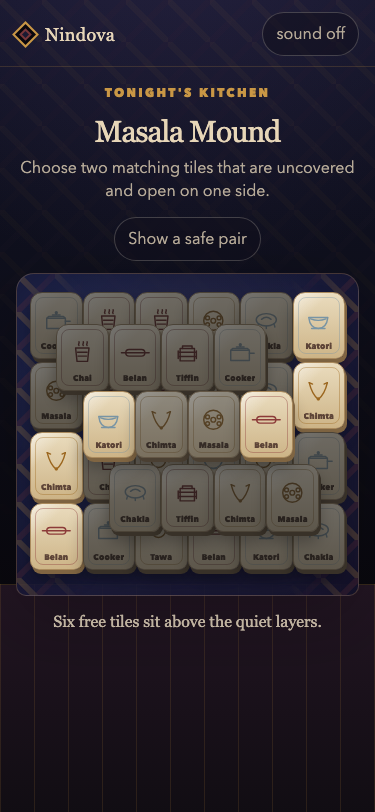
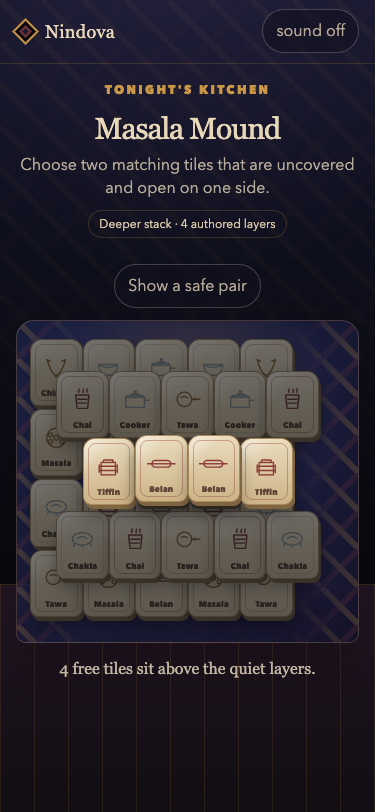
docs: synchronize quiet depth release surfaces

diff --git a/apps/site/src/styles/global.css b/apps/site/src/styles/global.css
@@ -35,7 +35,7 @@ h3 { margin-block-end: var(--space-xs); font-size: var(--text-lg); line-height: 
 .site-nav nav a, .site-footer nav a { display: inline-flex; min-height: 44px; align-items: center; font-size: var(--text-sm); font-weight: 650; white-space: nowrap; }
 .nav-play { padding-inline: var(--space-md); border: 1px solid var(--color-accent); color: var(--color-accent); text-decoration: none; }
 
-.rasoi-hero, .rule-section, .material-section, .boundary-section, .dawn-section, .trust-section, .qr-section, .closing-section, .site-footer { padding-inline: var(--page-gutter); }
+.rasoi-hero, .rule-section, .material-section, .boundary-section, .dawn-section, .sleep-section, .trust-section, .qr-section, .closing-section, .site-footer { padding-inline: var(--page-gutter); }
 .rasoi-hero {
   display: grid;
   align-items: center;
@@ -107,6 +107,12 @@ h3 { margin-block-end: var(--space-xs); font-size: var(--text-lg); line-height: 
 .dawn-art { margin: 0; }
 .dawn-art img { border: .6rem solid var(--color-paper-2); outline: 1px solid var(--color-accent-soft); box-shadow: 1.2rem 1.2rem 0 color-mix(in oklch, var(--color-accent-soft) 22%, transparent); }
 
+.sleep-section { display: grid; gap: var(--space-2xl); padding-block: var(--space-4xl); border-block: 1px solid var(--color-rule); background: var(--color-paper); }
+.sleep-fact { align-self: end; padding: var(--space-xl); border: 1px solid var(--color-accent-soft); background: var(--color-paper-2); box-shadow: .75rem .75rem 0 color-mix(in oklch, var(--color-accent-soft) 16%, transparent); }
+.sleep-fact > p:first-child { margin-bottom: var(--space-md); color: var(--color-ink-soft); font-family: var(--font-display); font-size: clamp(1.25rem, 2.2vw, 1.75rem); line-height: 1.45; }
+.source-line { margin: 0; color: var(--color-neutral); font-size: var(--text-sm); }
+.source-line a { font-weight: 700; }
+
 .trust-section { display: grid; gap: var(--space-2xl); padding-block: var(--space-4xl); background: var(--color-paper-2); }
 .trust-section ul { margin: 0; padding: 0; border-block-start: 1px solid var(--color-rule); list-style: none; }
 .trust-section li { display: grid; gap: var(--space-xs); padding-block: var(--space-md); border-block-end: 1px solid var(--color-rule); }
@@ -131,7 +137,7 @@ h3 { margin-block-end: var(--space-xs); font-size: var(--text-lg); line-height: 
 
 @media (min-width: 48rem) {
   .rasoi-hero { grid-template-columns: minmax(0, .86fr) minmax(26rem, 1.14fr); }
-  .rule-section, .material-section, .dawn-section, .trust-section, .qr-section { grid-template-columns: minmax(0, 1fr) minmax(0, 1fr); }
+  .rule-section, .material-section, .dawn-section, .sleep-section, .trust-section, .qr-section { grid-template-columns: minmax(0, 1fr) minmax(0, 1fr); }
   .boundary-grid { grid-template-columns: repeat(3, minmax(0, 1fr)); }
   .site-footer { grid-template-columns: auto 1fr auto; }
   .site-footer nav { justify-self: center; }

diff --git a/README.md b/README.md
@@ -1,31 +1,32 @@
 # Nindova
 
-Nindova is a calm, bounded pair-removal game for the end of the day. **Masala Mound** uses the uncovered-and-open-side rule of Mahjong solitaire and fills three overlapping layers with everyday Indian kitchen forms: belan, chakla, tawa, chimta, steel katori, tiffin, masala dabba, chai glass, and pressure cooker.
+Nindova is a calm, bounded pair-removal game for the end of the day. **Masala Mound** uses the uncovered-and-open-side rule of Mahjong solitaire and fills authored overlapping layers with everyday Indian kitchen forms: belan, chakla, tawa, chimta, steel katori, tiffin, masala dabba, chai glass, and pressure cooker.
 
 > Nothing to win. Nothing tracked. Nothing you can do wrong.
 
-![The real Masala Mound board, showing three overlapping layers of Indian kitchen tiles](./apps/site/public/media/rasoi-board.png)
+![The real Deeper Masala Mound board, showing four overlapping layers of Indian kitchen tiles](./apps/site/public/media/rasoi-board.png)
 
 ## Get Nindova
 
-- Build the v0.2.0 source candidate locally for the layered Session, installable offline PWA, documentation, and self-contained `nindova.html`.
-- The proposed direct, non-tracking QR targets `https://udhawan97.github.io/Nindova/play/`. Public hosting is not configured by this candidate, so that route and a real scan remain unavailable until publication is separately authorized and observed.
-- [Open the v0.1.0 release](https://github.com/udhawan97/Nindova/releases/tag/v0.1.0) for the previous flat-rack build and its checksums.
+- [Download v0.2.0](https://github.com/udhawan97/Nindova/releases/tag/v0.2.0) for the checksummed self-contained HTML file and complete web/PWA archive, or build the same source locally.
+- The direct, non-tracking QR targets `https://udhawan97.github.io/Nindova/play/`. This source release does not configure or claim public hosting; the route and a physical-device scan remain a separate verification lane.
+- [Open the release history](https://github.com/udhawan97/Nindova/releases) for the previous flat-rack build and its checksums.
 
-Until a public build is separately authorized and published, `/play/` works after serving a local build and `dist/nindova.html` works as a self-contained file.
+Until public hosting is separately configured and observed, `/play/` works after serving a local build and `dist/nindova.html` works as a self-contained file.
 
-<img src="./apps/site/public/play-qr.svg" width="180" alt="Proposed direct QR for the future canonical Nindova play URL">
+<img src="./apps/site/public/play-qr.svg" width="180" alt="Direct QR for the canonical Nindova play URL">
 
-The QR artifact encodes the full proposed URL with no shortener or tracking parameter. Keep the printed URL with the code so people can verify its destination after publication.
+The QR artifact encodes the full canonical URL with no shortener or tracking parameter. Keep the printed URL with the code so people can verify its destination when hosting is available.
 
 ## The experience
 
 - **A spatial rule.** Choose two matching tiles only when nothing overlaps them from above and at least one horizontal side is open.
-- **Guaranteed closure.** The 36-tile, 24/8/4-layer board is exhaustively verified across 382 reachable states: every reachable nonterminal state has a legal pair, and every legal choice remains solvable.
+- **A tonight-only choice.** Gentle stack has three more-open layers. Deeper stack uses four layers and more look-ahead. They are equal preferences, not levels or ability labels.
+- **Guaranteed closure.** Gentle is exhaustively verified across 382 reachable states; Deeper across 517. Each has one terminal state, zero dead states, and no losing legal choice.
 - **Clear match feedback.** Each legal pair folds inward through one brief, deterministic brass bloom; reduced motion uses opacity only and sound stays off by default.
 - **Quiet help.** “Show a safe pair” identifies a pair but never removes it.
-- **No performance layer.** No score, count, timer, streak, achievement, grade, collection, missed-night state, or randomized reward.
-- **A real ending.** Clearing the board closes the Session. If left unfinished, it settles itself before the hidden fifteen-minute ceiling. The primary handoff asks the person to put the screen down.
+- **No performance layer.** No score, weekly rank, history, count, timer, streak, achievement, grade, collection, missed-night state, or randomized reward.
+- **A real ending.** Clearing the board closes the Session. If left unfinished, it settles itself before the hidden fifteen-minute ceiling. Rest is primary; optional Rasoi Image Drift carries three familiar forms away from the screen and never routes back into play.
 - **Dawn, by choice.** From 06:00 through 11:59 in the captured Night ID zone, the previous night’s kitchen forms return as a first-light still and optional silent loop.
 - **Voluntary return.** “Not now” leaves Nindova available later that same night. After completion, closing and deliberately reopening Nindova starts another separately bounded Session on the identical board without multiplying Dawn.
 
@@ -74,7 +75,7 @@ npm test
 npm run test:wall-clock
 ```
 
-The main gates prove the 382-state board invariant, deterministic Night ID, recipe-two Dawn preservation, v1/v2-to-v3 local migration, idempotent same-night return, layered rendering, brass-bloom/reduced-motion behavior, Dawn eligibility/export fallback, 320–1440px rendered layouts, keyboard operation, 200% zoom, 44px targets, offline PWA closure, standalone independence, same-origin runtime requests, and the real production ceiling.
+The main gates prove the 382-state Gentle and 517-state Deeper invariants, deterministic Night ID, recipe-two Dawn preservation, v1/v2-to-v3 local migration, profile-bound same-tab recovery, idempotent same-night return, layered rendering, brass-bloom/Image-Drift/reduced-motion behavior, Dawn eligibility/export fallback, 320–1440px rendered layouts, keyboard operation, 200% zoom, 44px targets, offline PWA closure, standalone independence, same-origin runtime requests, and the real production ceiling.
 
 See [Testing](./apps/site/src/content/docs/docs/testing.md) and the [public-surface evidence ledger](./docs/PUBLIC-SURFACE-EVIDENCE.md) for evidence levels and remaining risk.
 
@@ -82,7 +83,7 @@ See [Testing](./apps/site/src/content/docs/docs/testing.md) and the [public-surf
 
 Nindova has no account, analytics, app telemetry, ads, app-controlled remote logging, or third-party runtime request. The production Session is static and same-origin. A static host may keep its own operational access logs outside the app's control.
 
-Long-lived local storage contains one version-3 record with only the latest completion facts needed by Dawn, a safely migrated legacy Dawn variant when present, and the optional local “Same time tomorrow?” intention. Interaction timing exists only in same-tab session storage to enforce resume and closure; it is not written to the long-lived record. Generated images and loops remain local blobs unless the person explicitly saves or shares them.
+Long-lived local storage contains one version-3 record with only the latest completion facts needed by Dawn, a safely migrated legacy Dawn variant when present, and the optional local “Same time tomorrow?” intention. The selected board profile and interaction timing exist only in version-4 same-tab session storage to enforce deterministic resume and closure; neither becomes history. Generated images and loops remain local blobs unless the person explicitly saves or shares them.
 
 ## Product and evidence boundary
 
@@ -92,7 +93,7 @@ The browser and standalone surfaces are implemented. The iOS Wall is deferred an
 
 ## Contributing
 
-Read [CONTEXT.md](./CONTEXT.md), the [layered Rasoi plan](./docs/LAYERED-RASOI-PLAN.md), and [ADR 0011](./docs/adr/0011-layer-rasoi-and-keep-replay-deliberate.md) before changing a product boundary. Preserve the Two-Loop Law, the immutable language, zero telemetry, deterministic solvability, and rendered phone/desktop evidence.
+Read [CONTEXT.md](./CONTEXT.md), the [Quiet Depth plan](./docs/QUIET-DEPTH-PLAN.md), and [ADR 0012](./docs/adr/0012-add-tonight-only-depth-and-image-drift.md) before changing a product boundary. Preserve the Two-Loop Law, the immutable language, zero telemetry, deterministic solvability, and rendered phone/desktop evidence.
 
 ## License
 

diff --git a/docs/PUBLIC-SURFACE-EVIDENCE.md b/docs/PUBLIC-SURFACE-EVIDENCE.md
@@ -4,24 +4,25 @@
 
 - The standalone `nindova.html` opens with no manifest or controlling service worker and exposes the same 36-tile runtime as `/play/`.
 - The rendered Session has no horizontal overflow or hidden required action at 320×568, 375×667, 375×812, 414×896, 768×1024, or 1440×900.
-- Six free Tiles expose native labels and targets of at least 44×44 CSS pixels; all 18 pairs can be removed with Tab and Enter at 200% zoom while focus moves to the next legal Tile.
-- The rendered board has real 24/8/4-layer overlap and z-order. Covered and side-blocked Tiles announce distinct reasons and are not operable.
-- The board verifier explores 382 reachable states with one terminal state and zero dead states for representative Chicago, Kolkata, and daylight-saving Night IDs.
+- Gentle begins with six free Tiles and Deeper with four. Native labels expose profile, numbered layer, and availability; targets remain at least 44×44 CSS pixels, and all 18 pairs can be removed with Tab and Enter at 200% zoom while focus moves to the next legal Tile.
+- Gentle has real 24/8/4 overlap across three layers. Deeper has a distinct 20/10/4/2 geometry across four layers. Covered and side-blocked Tiles announce distinct reasons and are not operable.
+- The board verifier explores 382 Gentle and 517 Deeper reachable states, one terminal state per profile, and zero dead states for representative Chicago, Kolkata, and daylight-saving Night IDs.
 - A legal pair updates engine state synchronously, shows a bounded and computed-visible deterministic brass bloom, and uses an opacity-only response under reduced motion. The board warmth token and settled-pixel mean do not increase after removal.
-- The asserted browser arc removes all 18 pairs and reaches the immutable end card with no console or page errors.
+- The asserted browser arc removes all 18 pairs and reaches the immutable end card with no console or page errors. Deeper is independently rendered and solved through the same legality kernel.
 - Dawn renders the stored kitchen motif order, downloads a local PNG, survives unsupported loop encoding, and creates a real browser loop when supported.
 - The PWA manifest and service worker are scoped to `/play/`; the v4 cache replaces a seeded v3 cache, retains local storage, and contains static same-origin shell URLs only. The Session resumes and closes offline with audio denied.
-- The end and rest surfaces do not route back into play. A page close/reopen returns to intake and can begin another separately bounded Session with the same board and cleared ephemeral state.
-- The landing page and docs build under `/` and `/Nindova/`; automation traverses the local `/play/`, `/docs/`, standalone artifact, and font-license paths. It also decodes the rendered QR to the single shared proposed canonical URL.
-- The council-fixed production application reached `end` at 722.447 seconds, remained closed through 900.001 observed seconds, and reported no browser errors in the unaccelerated wall-clock gate.
+- Rest is the primary completion action. Optional Rasoi Image Drift presents three deterministic kitchen forms, accepts no response, supports names and tactile wording as alternatives to visual imagery, and proceeds only to Rest. End, Drift, and Rest do not route back into play. A page close/reopen returns to intake and can begin another separately bounded Session with the same profile and board and cleared ephemeral state.
+- The landing page and docs build under `/` and `/Nindova/`; automation traverses the local `/play/`, `/docs/`, standalone artifact, and font-license paths. It also decodes the rendered QR to the single shared proposed canonical URL. Fresh committed 840×476 and 375×812 captures show the real Deeper source surface.
+- The production application reached `end` at 722.388 seconds through the `production-cap` path, reached near-black `rest` by 900.001 observed seconds, and reported no browser errors in the unaccelerated wall-clock gate.
 
 ## Source-proven
 
 - Long-lived state sanitization excludes interaction timestamps and safely copies v1/v2 Dawn state into a v3 union without deleting the source key.
 - Same-night completion is idempotent; deliberate return through intake selects the same board ID and motif order.
-- Same-tab active state accepts only a complete Night capture, exact capture-bound boundary times, a reachable legal removal history, and a possible phase/reason combination. Future/corrupt records fail open, rollback cannot defeat the monotonic boundary, and reload during settlement resumes closure instead of restoring a dead board.
+- Same-tab active state accepts only a known profile, complete Night capture, exact capture-bound boundary times, reachable legal removal history, and possible phase/reason combination. Future/corrupt records fail open, rollback cannot defeat the monotonic boundary, and reload during settlement resumes closure instead of restoring a dead board. The profile is ephemeral and never becomes long-lived history.
 - The runtime contains no analytics, account, advertising, remote-logging, or third-party request code. Browser request capture remains same-origin.
-- The landing page's external release-history mapping targets the existing v0.1.0 GitHub release; the offline gate does not depend on traversing that external service.
+- Sleep education stays outside the nightly Session, paraphrases CDC and NIH/NHLBI guidance, and links directly to those public sources. It does not infer a personal need, score sleep, or claim Nindova changes sleep or memory.
+- Runtime sound, animation, imagery, icons, and board geometry are locally authored with browser primitives. No paid API, free-tier service, new package, third-party runtime asset, or remote resource was introduced; existing Apache-2.0 and OFL notices remain public.
 
 ## Untested risk
 
@@ -29,4 +30,4 @@
 - Installed Safari and broader Android PWA behavior.
 - Human Punjabi cultural-authenticity review.
 - Human evidence that Masala Mound feels calm, legible, sleep-compatible, or improves general memory. No sleep, memory, or dopamine outcome is claimed.
-- Public deployment and real-device QR scanning. Hosting is not configured, and the proposed canonical URL is not yet published or observed.
+- Public deployment and real-device QR scanning. The canonical `/play/` URL returned HTTP 404 when checked on 2026-08-03; hosting is not configured by this source release.

diff --git a/apps/site/src/content/docs/docs/nightly-arc.md b/apps/site/src/content/docs/docs/nightly-arc.md
@@ -8,19 +8,20 @@ Rasoi Pairs is inspired by the readable free-tile rule of Mahjong solitaire. It 
 ## The path
 
 1. **Enter or decline** — “Not now” opens a quiet dismissal surface. Nindova stays voluntarily available later that night.
-2. **Read the mound** — six Tiles are initially free. A Tile needs no overlap from above and at least one open horizontal side.
-3. **Choose a pair** — select two free tiles showing the same kitchen form. A mismatch simply lifts the newer tile; there is no penalty.
-4. **Settle** — a match folds inward through one dim, predictable brass bloom and an optional restrained sound. Newly uncovered or open-side Tiles become free.
-5. **Ask for help if wanted** — a safe pair breathes briefly. Help never removes tiles.
-6. **Close** — the cleared board settles under its brass lid. If the hidden production boundary arrives first, the remaining kitchen settles under the same lid and reaches the same end card.
+2. **Choose tonight's profile** — Gentle has broader openings across three layers. Deeper adds a fourth layer and more look-ahead. Neither is a level, rank, or ability label.
+3. **Read the mound** — Gentle begins with six free Tiles; Deeper begins with four. A Tile needs no overlap from above and at least one open horizontal side.
+4. **Choose a pair** — select two free tiles showing the same kitchen form. A mismatch simply lifts the newer tile; there is no penalty.
+5. **Settle** — a match folds inward through one dim, predictable brass bloom and an optional restrained sound. Newly uncovered or open-side Tiles become free.
+6. **Ask for help if wanted** — a safe pair breathes briefly. Help never removes tiles.
+7. **Close** — the cleared board settles under its brass lid. If the hidden production boundary arrives first, the remaining kitchen settles under the same lid and reaches the same end card.
 
-The end card begins: “The session is over. That's the point.” Its primary action opens an optional screen-away handoff. Neither surface routes back into play. Closing and deliberately reopening Nindova returns to intake, where another separately bounded same-night Session is possible.
+The end card begins: “The session is over. That's the point.” **Dim and rest** is primary. A secondary **Carry three objects** action opens optional Rasoi Image Drift: three deterministic board forms appear with visible and semantic names before the same Rest handoff. It collects no answer and is not a sleep technique. Neither surface routes back into play. Closing and deliberately reopening Nindova returns to intake, where another separately bounded same-night Session is possible.
 
 ## Board guarantee
 
-The board has 36 Tiles: 24 on the base, 8 in the middle, and 4 on top, with four copies of each of nine motifs. The same overlap/open-side legality kernel drives rendering, input, help, active-session validation, and exhaustive verification.
+Each profile has 36 Tiles and four copies of each of nine motifs. Gentle uses 24 base, 8 middle, and 4 top Tiles. Deeper uses 20 base, 10 middle, 4 upper, and 2 crown Tiles. The same overlap/open-side legality kernel drives rendering, input, help, active-session validation, and exhaustive verification.
 
-The verifier explores all 382 reachable removal states for every tested board recipe. Every nonterminal state has at least one legal pair; every legal choice reaches the single terminal state. Nightly variation only permutes motif placement and cloth tone.
+The verifier explores 382 Gentle and 517 Deeper reachable removal states for every tested board recipe. Each profile has one terminal state and zero dead states; every legal choice remains safe. Nightly variation only permutes motif placement and cloth tone.
 
 ## Rest boundary
 
@@ -28,4 +29,4 @@ The verifier explores all 382 reachable removal states for every tested board re
 
 ## Timing
 
-The production clock begins an unfinished board's automatic settle at twelve minutes and has a hidden fifteen-minute ceiling. The remaining kitchen closes under the same lid. The reviewer switch `?review=1` compresses those boundaries without changing order or outcome.
+The production clock begins an unfinished board's automatic settle at twelve minutes and has a hidden fifteen-minute ceiling. Board, settlement, end card, optional Image Drift, and Rest share that one deadline. The reviewer switch `?review=1` compresses timing without changing order or outcome.

diff --git a/docs/testing/rasoi-redesign.md b/docs/testing/rasoi-redesign.md
@@ -3,25 +3,25 @@
 ## Pure model
 
 - 36 tiles: four copies of nine kitchen motifs.
-- Three overlapping layers: 24 base Tiles, 8 middle Tiles, and 4 top Tiles. A Tile is free only when uncovered and open on at least one horizontal side.
+- Gentle uses 24/8/4 Tiles across three layers; Deeper uses 20/10/4/2 across four. A Tile is free only when uncovered and open on at least one horizontal side.
 - One legality kernel drives free state, input, help, removal, completion, and exhaustive verification.
-- Representative Chicago, Kolkata, and daylight-saving Night IDs each produce 382 reachable states, one terminal state, and zero dead states.
+- Representative Chicago, Kolkata, and daylight-saving Night IDs each produce 382 Gentle and 517 Deeper reachable states, one terminal state per profile, and zero dead states.
 
 ## Rendered Session
 
-- Asserted arc: `intake → play → settling → end` after 18 legal pair removals.
+- Asserted arc: `intake → play → settling → end`, with optional `end → drift → rest`, after 18 legal pair removals.
 - Responsive inspection and automation: 320×568, 375×667, 375×812, and 1440×900, with retained 414×896 and 768×1024 coverage.
-- Native tile buttons expose form, free/covered, selected, and settled state; six starting tiles are at least 44×44 CSS pixels.
+- Native tile buttons expose form, numbered layer, free/covered, selected, and settled state; all starting free tiles are at least 44×44 CSS pixels.
 - Keyboard-only pair removal, two full touch journeys through every newly exposed layer, 200% zoom, reduced motion, computed visible focus, action reachability, and horizontal-overflow checks pass.
 - Help identifies two tiles and leaves the board unchanged.
 - A legal pair leaves through a bounded, computed-visible deterministic brass bloom; reduced motion uses opacity only. Settled board screenshots and the decreasing warmth token verify that the mean board luminance does not increase after a pair leaves.
-- No-input, partial, and selected-tile paths converge through the same production-cap ending.
+- No-input, partial, and selected-tile paths converge through the same production-cap Rest boundary.
 
 ## Night, privacy, and return
 
-- Same-tab reload restores the exact board and removed-tile set from ephemeral session storage. Active clocks are bound to the captured Night instant; future-corrupt and rollback cases fail safe or still close at the boundary.
+- Same-tab reload restores the exact profile, board, and removed-tile set from ephemeral version-4 session storage. Active clocks are bound to the captured Night instant; old, unknown-profile, future-corrupt, and rollback cases fail safe or still close at the boundary.
 - Same-night voluntary replay selects the same Night ID, board ID, and motif order.
-- The completed Session offers a screen-away handoff with no route back into play; browser evidence closes the page, opens a new page in the same profile, and completes the second touch Session without multiplying Dawn.
+- The completed Session makes Rest primary and offers one optional, response-free Image Drift with no route back into play; browser evidence closes the page, opens a new page in the same profile, and completes the second touch Session without multiplying Dawn.
 - Version-3 completion is idempotent and contains no interaction timestamps.
 - Version-1 legacy Dawn data copies into an explicit legacy completion variant without pretending it was Rasoi play. A literal v0.1.0 recipe-two completion passes storage restoration, Dawn eligibility, and Dawn rendering under recipe three.
 - Browser “Not now” leaves a same-page voluntary return path. No persistence, guilt language, or native-interception claim is added.
@@ -40,4 +40,4 @@ Human Punjabi cultural review, real-device VoiceOver/TalkBack, installed Safari/
 
 ## Production wall-clock receipt
 
-On 2026-08-03, `npm run test:wall-clock` exercised the council-fixed production application without reviewer acceleration. The Session reached `end` at 722.447 seconds through the `production-cap` path, remained closed through 900.001 observed seconds, and reported no console or page errors.
+On 2026-08-03, `npm run test:wall-clock` exercised the production application without reviewer acceleration. The Session reached `end` at 722.388 seconds through the `production-cap` path, reached `rest` by 900.001 observed seconds, and reported no console or page errors.

diff --git a/apps/site/src/content/docs/docs/research-receipts.md b/apps/site/src/content/docs/docs/research-receipts.md
@@ -5,6 +5,12 @@ description: The stopping-behavior evidence Nindova draws from and the claims Ra
 
 Nindova is a behavioral design study, not a clinical intervention. No cited study tested Masala Mound or this product’s ability to make someone sleepy, improve sleep, improve general memory, or produce a useful dopamine effect. The fuller evidence ledger is in the repository at `docs/research/bedtime-game-evidence.md`.
 
+## Why sleep matters
+
+The [CDC sleep-duration table](https://www.cdc.gov/sleep/about/index.html) lists 8–10 hours for ages 13–17 and at least 7 hours for adults 18–60. The [NIH/NHLBI health-effects summary](https://www.nhlbi.nih.gov/health/sleep-deprivation/health-effects) describes sleep as important for learning, attention, reaction, decision-making, emotional regulation, physical health, and safety.
+
+**Copy boundary:** these are population facts, not an individual score or diagnosis. Needs vary, and Nindova does not measure sleep.
+
 ## Stimulation and screen exposure
 
 [Weaver et al. (2010)](https://pmc.ncbi.nlm.nih.gov/articles/PMC2854707/) found that a more exciting pre-sleep video game condition reduced subjective sleepiness and lengthened sleep onset compared with passive viewing in a small laboratory study. [Chang et al. (2015)](https://pmc.ncbi.nlm.nih.gov/articles/PMC4313820/) found that prolonged evening use of a light-emitting e-reader delayed circadian timing, suppressed melatonin, increased sleep latency, and reduced next-morning alertness compared with a printed book.
@@ -28,6 +34,22 @@ Nindova is a behavioral design study, not a clinical intervention. No cited stud
 **Design inference:** use brief, deterministic confirmation so the result is legible.
 
 **Limit:** Nindova calls the effect a brass bloom, not a dopamine hit. It does not measure dopamine or use randomized reward schedules.
+
+## Rankings and retention
+
+Experiments use leaderboards to create social comparison and increase intended behavior, while streak and uncertain-reward mechanics are designed to increase persistence. The evidence review also found a small clinical case series in which sleep-tracker metrics intensified preoccupation with sleep.
+
+**Design inference:** offer Gentle and Deeper as equal tonight-only preferences, but add no weekly ranking, performance history, streak, personal best, sleep score, or improvement claim.
+
+**Limit:** the indirect evidence does not prove that every statistic harms every person. Nindova excludes the mechanics because its objective is easy stopping, and puzzle behavior cannot establish sleep or general-memory improvement.
+
+## Image Drift
+
+A small one-night experiment found favorable self-reported results from pleasant imagery distraction in people with insomnia, while a broader review found that pre-sleep cognitive manipulations can help, do nothing, or harm.
+
+**Design inference:** optional Rasoi Image Drift presents three familiar board forms and then moves attention away from the screen. It is response-free, skippable, and never auto-started.
+
+**Limit:** Image Drift is an unvalidated product hypothesis, not a cognitive shuffle, sleep technique, or treatment.
 
 ## Clinical boundary
 

diff --git a/docs/releases/v0.2.0.md b/docs/releases/v0.2.0.md
@@ -1,23 +1,24 @@
-# Nindova v0.2.0 — proposed candidate notes
+# Nindova v0.2.0 — Quiet Depth
 
-These notes describe the verified source candidate. v0.2.0 is not a published tag or GitHub release until the release gate is run separately.
+Nindova v0.2.0 adds a little more thinking without turning bedtime into a competition. The nightly Session stays bounded, local, and genuinely willing to end.
 
 ## Added
 
-- Masala Mound: 36 kitchen Tiles across 24 base, 8 middle, and 4 top positions with real layered occlusion.
+- Gentle and Deeper Masala Mound profiles: two equal, tonight-only 36-Tile choices with real three- and four-layer occlusion.
 - One deterministic brass-bloom response for legal pairs, with optional sound and an opacity-only reduced-motion alternative.
-- An optional screen-away handoff with no route back into play; closing and deliberately reopening can begin another separately bounded same-night Session.
-- Apache License 2.0, redistributed font notices, and a direct non-tracking QR candidate for the canonical future `/play/` route.
+- Primary Rest plus optional Rasoi Image Drift, a response-free three-object handoff with no route back into play; closing and deliberately reopening can begin another separately bounded same-night Session.
+- Apache License 2.0, redistributed font notices, and a direct non-tracking QR artifact for the canonical `/play/` route.
 
 ## Improved
 
-- Exhaustive board verification now covers 382 reachable states, one terminal state, and zero dead states.
+- Exhaustive board verification covers 382 Gentle and 517 Deeper reachable states, one terminal state each, and zero dead states.
 - Tile semantics distinguish covered-from-above, blocked-on-both-sides, free, selected, and settled states.
-- Recipe version 3 preserves existing recipe-two Rasoi Dawn data while rejecting stale active-board state.
+- Recipe version 4 identifies each board profile. Long-lived Dawn remains version 3; version-4 same-tab records restore a profile and reject stale or unknown-profile active state without creating performance history.
 - Public documentation and rendered media now match the layered game and its evidence boundary.
 
 ## Evidence boundary
 
 - Masala Mound uses recognition, visual search, and spatial planning. It is not proven to improve general memory.
 - Nindova is not proven to make people sleepy, improve sleep, or produce a useful dopamine response.
-- Public hosting is not configured. The proposed route and QR remain unavailable as a live public path until a separate publication is authorized and observed.
+- No weekly rank, score, streak, personal best, history, sleep grade, memory grade, or improvement claim is included. Optional sleep education is paraphrased, attributed, population-level, and outside the nightly Session.
+- Public hosting is not configured by this release. The canonical route and physical-device QR path remain unverified until hosting is separately configured and observed.

diff --git a/apps/site/src/content/docs/docs/testing.md b/apps/site/src/content/docs/docs/testing.md
@@ -11,12 +11,12 @@ Nindova distinguishes three evidence levels:
 
 ## Gates
 
-- `test:unit` proves motif and layer counts, covered/open-side behavior, deterministic recipes, exhaustive 382-state solvability, recipe-two completion preservation, state sanitization/migration, captured-zone Dawn boundaries, and export utilities.
+- `test:unit` proves motif and layer counts for both profiles, covered/open-side behavior, deterministic recipes, exhaustive 382-state Gentle and 517-state Deeper solvability, recipe-two completion preservation, state sanitization/migration, captured-zone Dawn boundaries, and export utilities.
 - `test:arc` removes all 18 pairs through `window.__ct`, asserts `intake → play → settling → end`, immutable copy, local completion, screenshots, and zero browser errors.
 - `test:portrait` covers 320, 375, 414, 768, and 1440px surfaces, 44px targets, semantic labels, keyboard pairing, 200% zoom, reduced motion, and horizontal overflow.
-- `test:layered` proves real visual overlap and z-order, covered/side-blocked semantics, synchronous pair removal, the brass bloom, reduced-motion opacity, the screen-away handoff, and deliberate same-night return.
-- `test:self-closing` proves help does not play, reviewer and production caps remain distinct, and no-input/partial/selected-tile paths converge on the same ending.
-- `test:night` covers corrupt recovery, “Not now” return, reload resume, same-night board identity, v3 completion, and replay idempotence.
+- `test:layered` proves real visual overlap and z-order, the structural Gentle/Deeper distinction, covered/side-blocked semantics, synchronous pair removal, the brass bloom, optional Image Drift, reduced-motion opacity, Rest, and deliberate same-night return.
+- `test:self-closing` proves help does not play, reviewer and production caps remain distinct, and no-input/partial/selected-tile paths converge on Rest by the global deadline.
+- `test:night` covers corrupt recovery, old active-record cleanup, unknown-profile rejection, “Not now” return, Gentle and Deeper reload resume, same-night board identity, v3 completion, and replay idempotence.
 - `test:dawn` serves the composed build and verifies morning boundaries, the rendered kitchen composition, local PNG download, share cancellation, loop fallback, and a real browser loop.
 - `test:pwa` verifies manifest/scope, offline cache ownership, denied-audio operation, same-tab resume, offline closure, quiet tomorrow intent, same-origin requests, and standalone independence.
 - `test:wall-clock` leaves a production Session untouched through its twelve-minute automatic settle and the absolute fifteen-minute ceiling.

diff --git a/apps/site/src/content/docs/docs/architecture.md b/apps/site/src/content/docs/docs/architecture.md
@@ -13,11 +13,11 @@ description: Browser-first boundaries for Rasoi legality, Night state, Dawn, PWA
 
 `rasoi-core.ts` owns motif identity, deterministic board creation, free-tile calculation, legal-pair enumeration, pair removal, help selection, completion, and exhaustive reachability verification. Rendering and input do not duplicate its legality rule.
 
-The authored geometry has 24 base Tiles, 8 middle Tiles, and 4 top Tiles on a half-Tile coordinate grid. A remaining Tile is free only when no higher-layer Tile overlaps it and at least one same-layer horizontal side is open. The verifier confirms 382 reachable states, one terminal state, and zero dead states; every legal choice remains safe.
+The authored Gentle geometry has 24 base, 8 middle, and 4 top Tiles. Deeper has 20 base, 10 middle, 4 upper, and 2 crown Tiles. Both use a half-Tile coordinate grid. A remaining Tile is free only when no higher-layer Tile overlaps it and at least one same-layer horizontal side is open. The verifier confirms 382 Gentle and 517 Deeper reachable states, one terminal state each, and zero dead states; every legal choice remains safe.
 
 ## Browser and local state
 
-`session.ts` renders semantic buttons and layered coordinates, begins the hidden automatic settle at twelve minutes, enforces the fifteen-minute ceiling, manages same-tab resume, synthesizes optional audio, presents the deterministic brass bloom, and maintains versioned `window.__rasoi`. `window.__ct` remains an alias for compatibility evidence.
+`session.ts` renders semantic buttons and layered coordinates, applies the tonight-only profile, begins the hidden automatic settle at twelve minutes, enforces one fifteen-minute deadline through Rest, manages version-4 same-tab resume, synthesizes optional audio, presents the deterministic brass bloom and optional response-free Image Drift, and maintains versioned `window.__rasoi`. `window.__ct` remains an alias for compatibility evidence.
 
 `night-core.ts` owns Night ID, deterministic recipe version 3, v3 state sanitization, v1/v2 migration, preservation of recipe-two Rasoi Dawn data, and idempotent completion. `dawn-core.ts` owns captured-zone eligibility, still/loop capability handling, sharing, and temporary URL leases.
 

diff --git a/apps/site/src/content/docs/docs/roadmap.md b/apps/site/src/content/docs/docs/roadmap.md
@@ -1,21 +1,21 @@
 ---
 title: Roadmap
-description: What exists in the v0.2.0 source candidate and what remains deliberately unclaimed.
+description: What exists in the v0.2.0 source release and what remains deliberately unclaimed.
 ---
 
-## In the v0.2.0 source candidate
+## In the v0.2.0 source release
 
-- Masala Mound pure legality kernel and 36-Tile, 24/8/4-layer semantic interface.
-- Deterministic recipe version 3 with exhaustive 382-state, no-dead-state verification.
+- Masala Mound pure legality kernel and two equal 36-Tile board profiles: three-layer Gentle and four-layer Deeper.
+- Deterministic recipe version 4 with exhaustive 382-state Gentle and 517-state Deeper verification, one ending each, and zero dead states.
 - Deterministic brass-bloom match feedback with a reduced-motion opacity alternative.
-- Optional screen-away handoff and deliberate same-night return through intake.
+- Primary Rest handoff, one optional response-free Rasoi Image Drift, and deliberate same-night return through intake.
 - Hidden twelve-minute automatic settle and fifteen-minute ceiling.
-- Version-3 local state with safe v1/v2 Dawn migration, recipe-two completion preservation, and same-tab resume.
+- Version-3 long-lived state with safe v1/v2 Dawn migration and recipe-two completion preservation; version-4 same-tab resume restores the chosen profile without creating history.
 - Redesigned first-light kitchen Dawn with local still and silent-loop export.
 - Self-contained standalone HTML and separately tested installable offline PWA.
-- Synchronized landing page, Starlight docs, rendered candidate media, Apache-2.0 licensing, and a locally verified QR artifact for a proposed future public route.
+- Synchronized landing page, Starlight docs, rendered source media, Apache-2.0 licensing, and a locally verified QR artifact for the canonical public route.
 
-The public GitHub release remains v0.1.0 until this candidate is separately approved, tagged, and published.
+Public hosting and a physical-device QR scan remain separate verification lanes; the source release does not claim either.
 
 ## Next hardening
 

diff --git a/apps/site/src/content/docs/docs/accessibility.md b/apps/site/src/content/docs/docs/accessibility.md
@@ -8,13 +8,15 @@ Rasoi Pairs uses native HTML buttons for every tile. The drawing, visible name, 
 ## Operable rule
 
 - Free tiles are the only tiles in the keyboard tab order.
-- Each tile announces its kitchen form and whether it is free, covered from above, blocked on both sides, selected, or settled.
+- Each tile announces its kitchen form, numbered layer, and whether it is free, covered from above, blocked on both sides, selected, or settled.
 - Selection and removal work with pointer, touch, keyboard, switch-style activation, and programmatic semantic control.
 - All tile and toolbar targets are at least 44 by 44 CSS pixels.
 - Live status text describes selection, mismatch, match, help, automatic settlement, and closure.
 - Visible text names mean recognition does not depend on the illustration.
 
-Audio is off by default and optional. The brass bloom is decorative; reduced motion replaces its translation and scale with a short opacity change. Precision movement and vision are not required.
+The profile selector uses native radio controls, visible descriptions, and explicit three- versus four-layer language, so the distinction does not rely on geometry or color alone. Image Drift exposes all three object names in a semantic list and invites imagery or tactile memory; it is always skippable.
+
+Audio is off by default and optional. The brass bloom and board-to-dabba transition are decorative; reduced motion replaces translation and scale with short opacity changes. Precision movement, mental imagery, sound, animation, and vision are not required.
 
 ## Alternate presentation
 

diff --git a/CHANGELOG.md b/CHANGELOG.md
@@ -1,5 +1,25 @@
 # Changelog
 
+## 0.2.0 — 2026-08-03
+
+### Added
+
+- Gentle and Deeper tonight-only Masala Mound profiles with three- and four-layer authored geometry.
+- Exhaustive proof of 382 Gentle and 517 Deeper reachable states, one terminal state each, and zero dead states.
+- Optional Rasoi Image Drift: three deterministic board forms, a response-free screen-away prompt, and an immediate Rest exit.
+- Calm, attributed CDC and NIH/NHLBI sleep education outside the nightly Session.
+
+### Changed
+
+- Extended the one global Session deadline through the end surface, optional Image Drift, and near-black Rest.
+- Added version-4 same-tab recovery for exact profile/board restoration while keeping long-lived Dawn state and same-night completion idempotent.
+- Made profile and layer distinctions explicit in native controls and semantic Tile labels.
+
+### Not added
+
+- No weekly ranking, score, streak, personal best, history, sleep grade, memory grade, randomized reward, or improvement claim.
+- No runtime service, account, paid API, free-tier dependency, third-party asset, analytics, or remote resource.
+
 ## 0.1.0 — 2026-08-03
 
 ### Added
